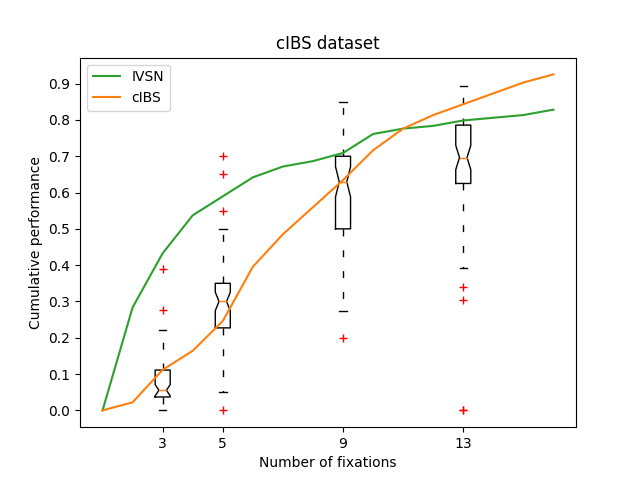
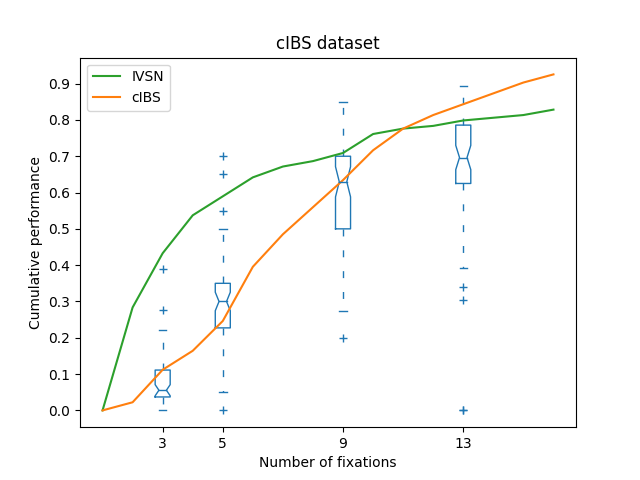
(cIBS dataset) boxplots en color humano

diff --git a/Metrics/cumulative_performance.py b/Metrics/cumulative_performance.py
@@ -18,7 +18,7 @@ class Cumulative_performance:
             model_cumulative_performance = self.compute_cumulative_performance(model_scanpaths)
             self.subjects_cumulative_performance.append({'subject': model_name, 'cumulative_performance': model_cumulative_performance, 'color': model_color})
     
-    def add_human_mean(self, humans_scanpaths_dir):
+    def add_human_mean(self, humans_scanpaths_dir, humans_color):
         humans_cumulative_performance = []
         humans_scanpaths_files = listdir(humans_scanpaths_dir)
         for human_scanpaths_file in humans_scanpaths_files:
@@ -43,7 +43,7 @@ class Cumulative_performance:
                 subject_index += 1
         else:
             humans_cumulative_performance_mean = np.mean(np.array(humans_cumulative_performance), axis=0)
-        self.subjects_cumulative_performance.append({'subject': 'Humans', 'cumulative_performance': humans_cumulative_performance_mean, 'color': '#1f77b4'})
+        self.subjects_cumulative_performance.append({'subject': 'Humans', 'cumulative_performance': humans_cumulative_performance_mean, 'color': humans_color})
 
     def compute_cumulative_performance(self, scanpaths):
         """ At index i, this array holds the number of targets found in i or less fixations """
@@ -107,8 +107,8 @@ class Cumulative_performance:
             subject_cumulative_performance = subject['cumulative_performance'] 
 
             if subject_name == 'Humans' and self.dataset_name == 'cIBS':
-                ax.boxplot(subject_cumulative_performance, notch=True, vert=True, whiskerprops={'linestyle': (0, (5, 10))}, \
-                    flierprops={'marker': '+', 'markeredgecolor': 'red'}, positions=[3, 5, 9, 13])
+                ax.boxplot(subject_cumulative_performance, notch=True, vert=True, whiskerprops={'linestyle': (0, (5, 10)), 'color': subject['color']}, capprops={'color': subject['color']}, \
+                    boxprops={'color': subject['color']}, flierprops={'marker': '+', 'markeredgecolor': subject['color']}, medianprops={'color': subject['color']}, positions=[3, 5, 9, 13])
             else:
                 ax.plot(range(1, self.max_scanpath_length + 1), subject_cumulative_performance[1:], label=subject_name, color=subject['color'])
 

diff --git a/Metrics/main.py b/Metrics/main.py
@@ -7,7 +7,8 @@ from os import listdir, path
 results_dir  = '../Results/'
 datasets_dir = '../Datasets/'
 # To ensure models have the same color in the plots across all datasets
-colors = ['#2ca02c', '#d62728', '#ff7f0e']
+models_colors = ['#2ca02c', '#d62728', '#ff7f0e']
+humans_color  = '#1f77b4'
 
 dataset_results_dirs = listdir(results_dir)
 for dataset in dataset_results_dirs:
@@ -25,7 +26,7 @@ for dataset in dataset_results_dirs:
     multimatch = Multimatch(dataset_name, human_scanpaths_dir, dataset_results_dir)
 
     subjects_cumulative_performance = Cumulative_performance(dataset_name, number_of_images, max_scanpath_length)
-    subjects_cumulative_performance.add_human_mean(human_scanpaths_dir)
+    subjects_cumulative_performance.add_human_mean(human_scanpaths_dir, humans_color)
 
     # Compute models metrics and compare them with human subjects metrics
     models = listdir(dataset_results_dir)
@@ -38,11 +39,11 @@ for dataset in dataset_results_dirs:
         with open(model_scanpaths_file, 'r') as fp:
             model_scanpaths = json.load(fp)
 
-        subjects_cumulative_performance.add_model(model_name, model_scanpaths, colors[color_index])
+        subjects_cumulative_performance.add_model(model_name, model_scanpaths, models_colors[color_index])
 
         # Human multimatch scores are different for each model, since each model uses different image sizes
         multimatch.load_human_mean_per_image(model_name, model_scanpaths)
-        multimatch.add_model_vs_humans_mean_per_image(model_name, model_scanpaths, colors[color_index])
+        multimatch.add_model_vs_humans_mean_per_image(model_name, model_scanpaths, models_colors[color_index])
 
         color_index += 1
     
